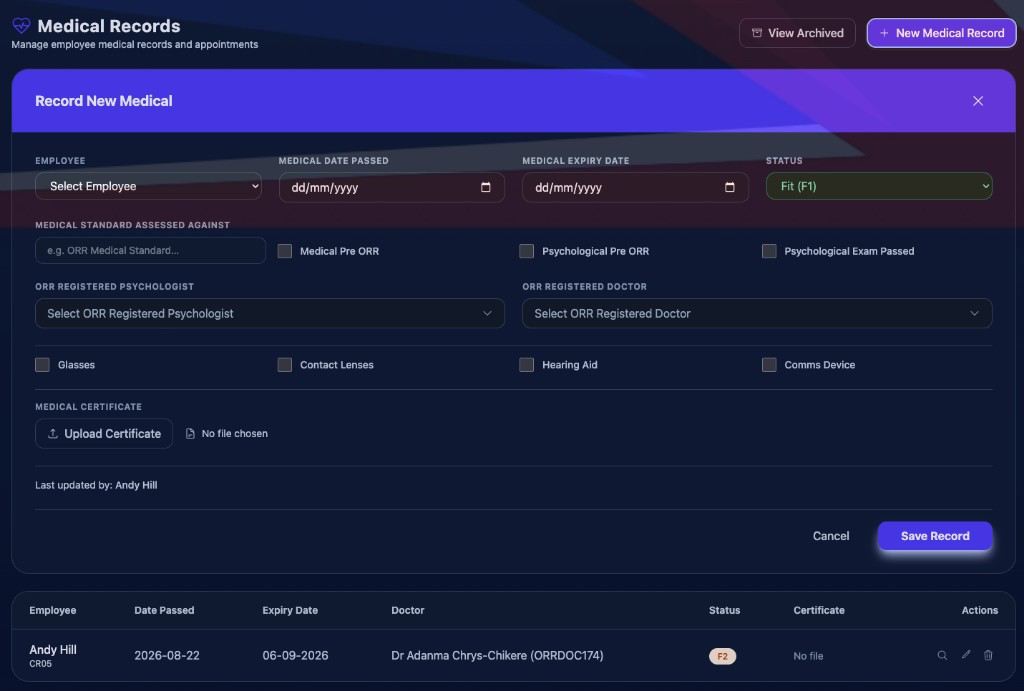
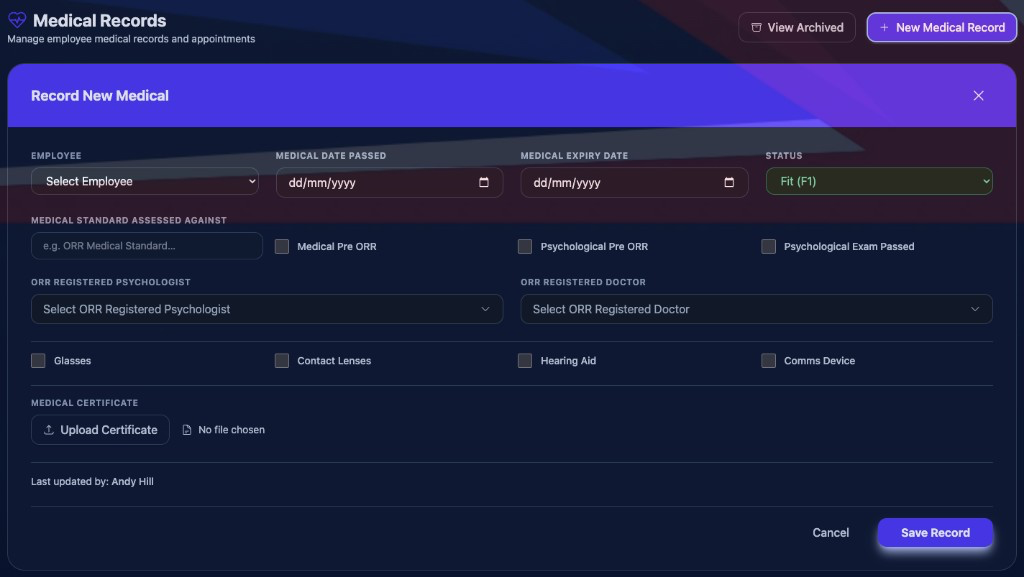
Update medical records screenshot and display at full width.

diff --git a/features/medicals-licensing.html b/features/medicals-licensing.html
@@ -264,18 +264,18 @@
     </section>
 
 
-    <section class="page-section">
+    <section class="page-section page-section--wide">
       <div class="container">
-        <div class="page-section__head">
+        <div class="page-section__head page-section__head--wide">
           <h2>Medical records and fitness status</h2>
           <p>Medical records carry fitness status, the issuing clinician and the expiry date. A status of unfit or an expired medical marks the employee as not safe to work, which surfaces on the dashboard and in reporting rather than waiting to be noticed.</p>
           <p>The company Medicals page gives the position across the workforce, including which medicals are due within the next 30 days.</p>
 
         </div>
-      <div class="shot-grid shot-grid--two">
-        <figure class="shot reveal" style="max-width: 512px">
-          <div class="shot__frame">
-            <img src="../images/screens/medical/new-medical-record.png?v=196645714" alt="Recording a new medical for occupational health and ORR medicals." width="512" height="346" loading="lazy" decoding="async" />
+      <div class="shot-grid shot-grid--full">
+        <figure class="shot shot--full reveal">
+          <div class="shot__frame shot__frame--fullwidth" style="--shot-display-width: 1024px">
+            <img src="../images/screens/medical/new-medical-record.png?v=196645714" alt="Recording a new medical for occupational health and ORR medicals." width="1024" height="577" loading="lazy" decoding="async" />
           </div>
           <figcaption class="shot__caption">Recording a new medical for occupational health and ORR medicals.</figcaption>
         </figure>
